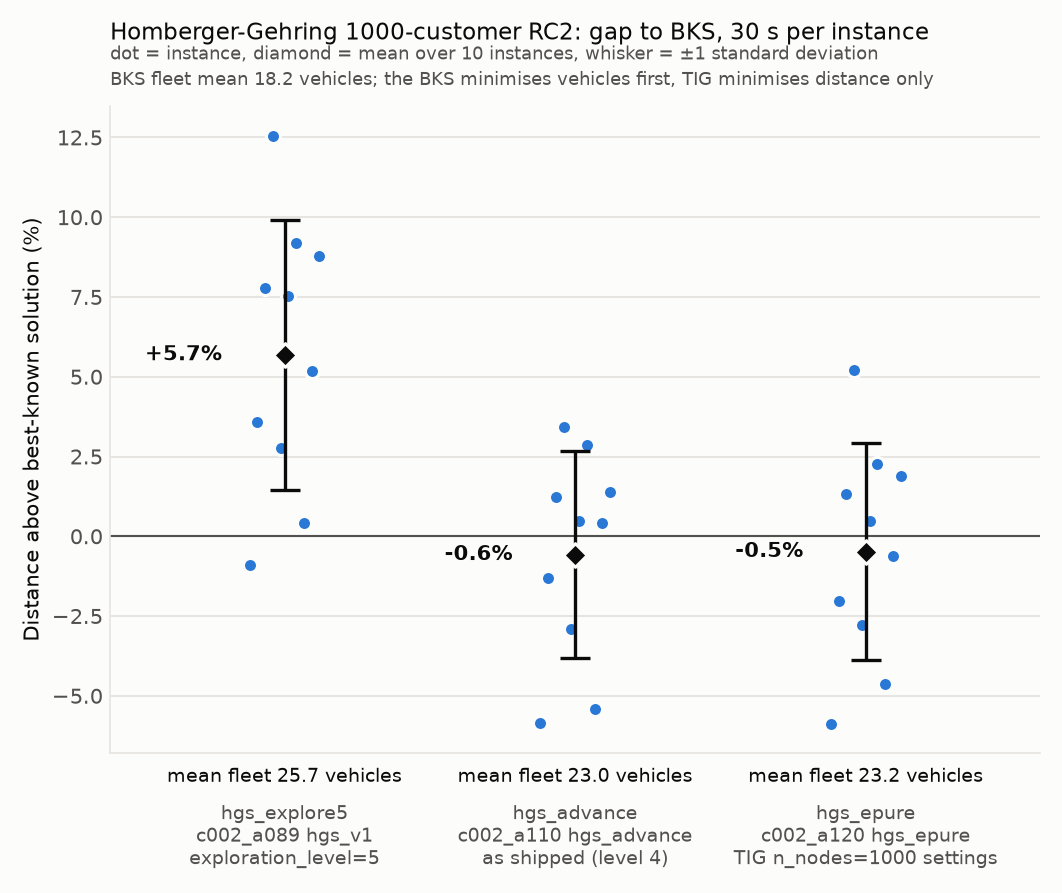
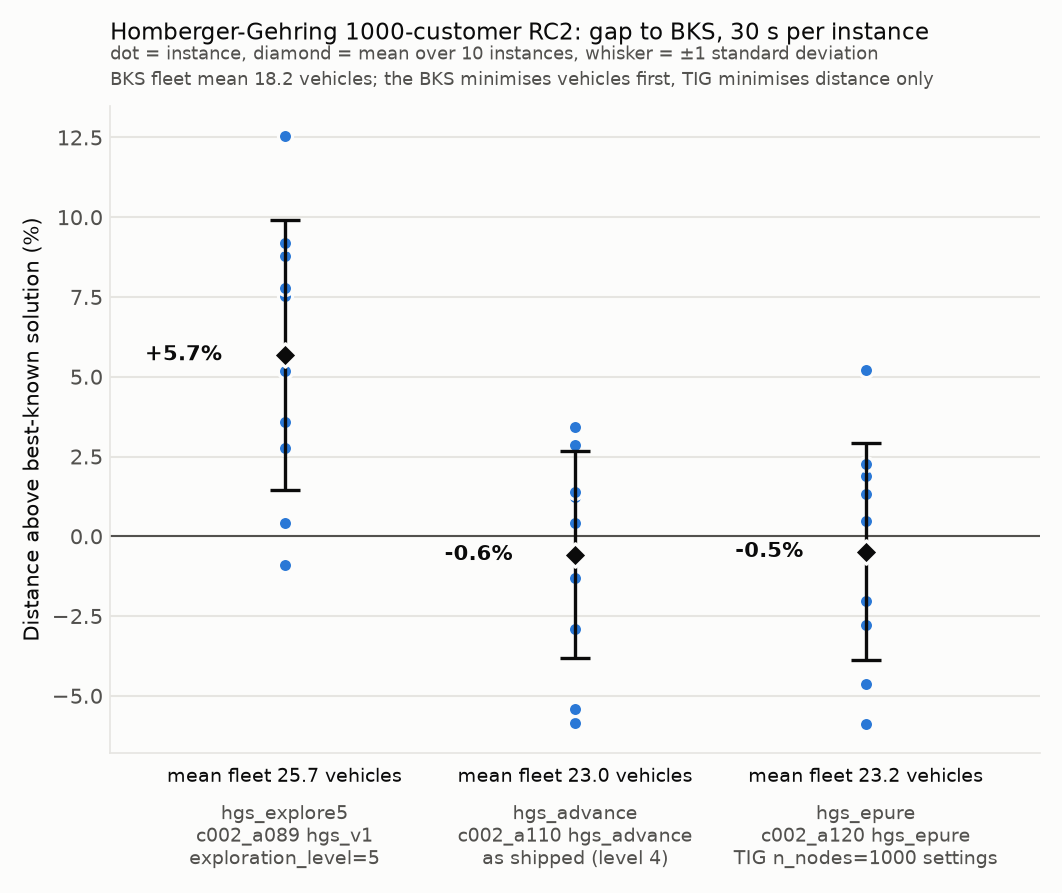
Align the instance dots on each configuration's centre line
Drop the horizontal spread: every dot sits on the same x as its mean
marker and whisker, which is easier to read across configurations.

diff --git a/tig-stats-sota/vehicle-routing/analyze.py b/tig-stats-sota/vehicle-routing/analyze.py
@@ -184,14 +184,6 @@ def _style_axis(ax) -> None:
     ax.tick_params(colors=TEXT_SECONDARY, length=0)
 
 
-def _spread(count: int, width: float = 0.12) -> list[float]:
-    """Deterministic x offsets in [-width, width] that keep rank-adjacent dots apart."""
-    if count < 2:
-        return [0.0] * count
-    step = 7 if count % 7 else 3  # coprime with count for every count used here
-    return [-width + 2 * width * ((k * step) % count) / (count - 1) for k in range(count)]
-
-
 def plot(summary: dict, rows: list[dict]) -> bool:
     try:
         import matplotlib
@@ -223,11 +215,11 @@ def plot(summary: dict, rows: list[dict]) -> bool:
     _style_axis(ax)
     ax.axhline(0, color=TEXT_SECONDARY, linewidth=1, zorder=1)
 
-    # One dot per instance, spread a little so equal gaps stay visible.
+    # One dot per instance on the configuration's centre line; the surface-coloured
+    # edge keeps dots with near-equal gaps distinguishable.
     for index, label in enumerate(labels):
-        values = sorted(row["gap_pct"] for row in rows if row["algorithm"] == label and row["gap_pct"] is not None)
-        offsets = _spread(len(values))
-        ax.scatter([index + dx for dx in offsets], values, s=46, color=SERIES, edgecolor=SURFACE, linewidth=1.5, zorder=3)
+        values = [row["gap_pct"] for row in rows if row["algorithm"] == label and row["gap_pct"] is not None]
+        ax.scatter([index] * len(values), values, s=46, color=SERIES, edgecolor=SURFACE, linewidth=1.5, zorder=3)
 
     # Mean with a +/- 1 standard deviation whisker, drawn over the dots.
     ax.errorbar(positions, means, yerr=stds, fmt="none", ecolor=TEXT_PRIMARY, elinewidth=1.6, capsize=7, capthick=1.6, zorder=4)
